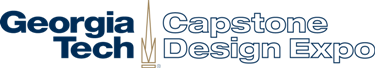
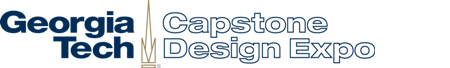
Changed the Admin text to part of the image and updated the readme for it.

diff --git a/admin/templates/index.html b/admin/templates/index.html
@@ -3,7 +3,7 @@
 
   <body onload="check()" onresize="check()">
     <!-- /container -->
-    <a href="{{ url_for('index') }}"><img src="{{ url_for('static', filename='img/GT_logo.png') }}" class="gtlogo"></a><font color = "white"> ADMIN</font>
+    <a href="{{ url_for('index') }}"><img src="{{ url_for('static', filename='img/GT_logo.png') }}" class="gtlogo"></a>
     <div class="alert alert-danger" id="ExpoAlert"><strong>Alert!</strong> Due to the rain the expo will follow the rain map.</div>
     <div id="content" style="height:auto;">
       <div class="container">

diff --git a/admin/templates/layout.html b/admin/templates/layout.html
@@ -64,7 +64,7 @@
 	{% else %}
 	<body>
 	{% endif %}
-		<a href="{{ url_for('index') }}"><img src="{{ url_for('static', filename='img/GT_logo.png') }}" class="gtlogo"></a> <font color = "white"> ADMIN</font>
+		<a href="{{ url_for('index') }}"><img src="{{ url_for('static', filename='img/GT_logo.png') }}" class="gtlogo"></a>
 		<div class="alert alert-danger" id="ExpoAlert"><strong>Alert!</strong> Due to the rain the expo will follow the rain map.</div>
 		<div id="content">
 			<div class="container">
